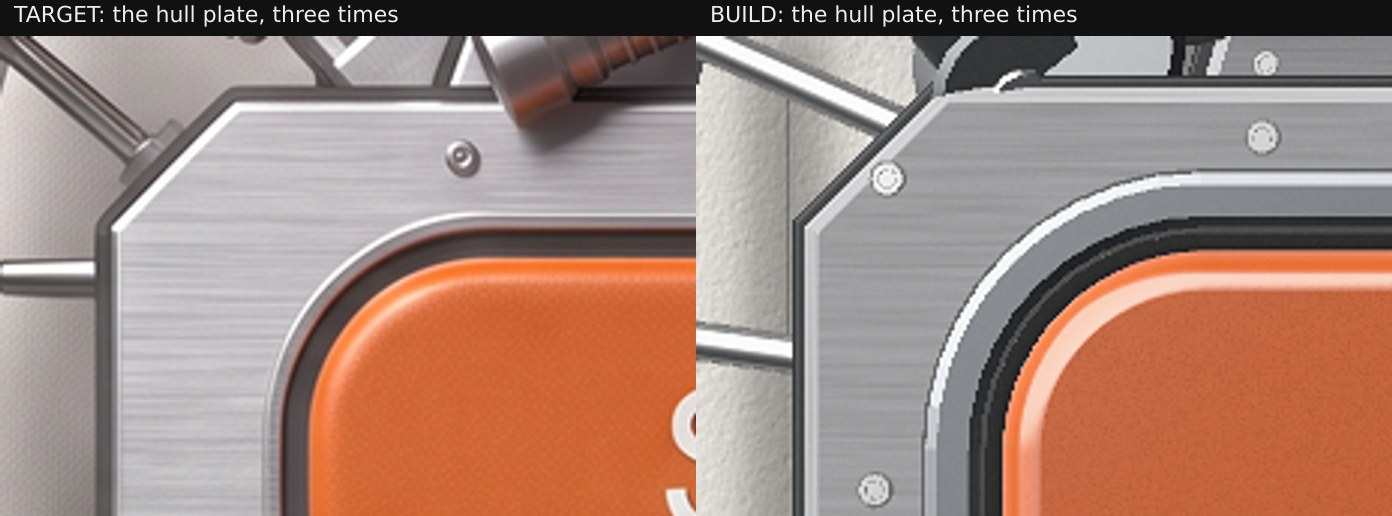
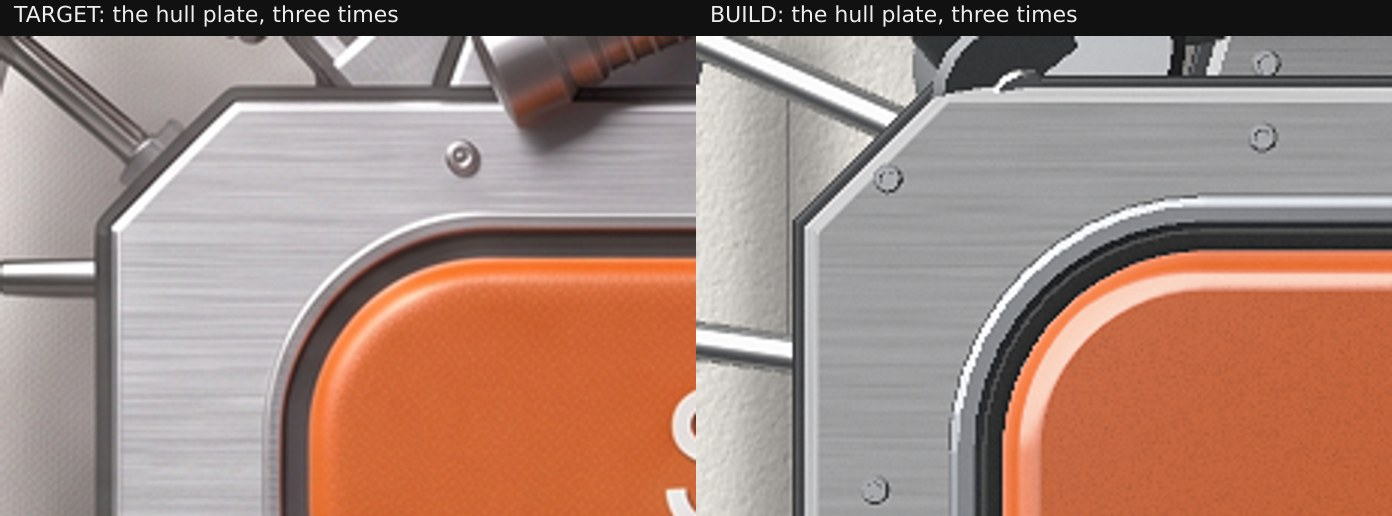
Boss look: thinner bezel round the button, smaller steel screws

Changed region(s): [[0.6178, 0.2171, 1.0, 1.0], [0.8958, 0.093, 0.9267, 0.155], [0.6178, 0.3101, 0.6487, 0.3721]]

diff --git a/src/boss/look1/model.ts b/src/boss/look1/model.ts
@@ -53,7 +53,7 @@ const screwsAt = (at: [number, number][], z: number, r = 6.5, seed = 1): THREE.B
 
 function hullGeo(): { plate: THREE.BufferGeometry; dark: THREE.BufferGeometry; trim: THREE.BufferGeometry; bed: THREE.BufferGeometry; pins: THREE.BufferGeometry; joints: THREE.BufferGeometry } {
   const { hx, hy, c, top, tall, belly } = HULL
-  const bezelOut = pillOutline(BTN.w + 52, BTN.h + 52, BTN.r + 24)
+  const bezelOut = pillOutline(BTN.w + 36, BTN.h + 36, BTN.r + 17)
   const bezelIn = pillOutline(BTN.w + 12, BTN.h + 12, BTN.r + 5)
   const plate = chamfer(oct(hx, hy, c), top - tall, top, 5, 5)
   const dark = joined([
@@ -61,10 +61,10 @@ function hullGeo(): { plate: THREE.BufferGeometry; dark: THREE.BufferGeometry; t
     plateAt(oct(hx - 16, hy - 14, c - 6), belly, top - tall + 1, 5),
     plateAt(oct(hx - 60, hy - 40, 20), belly - 22, belly + 1, 5)
   ])
-  const trim = ringPlate(bezelOut, bezelIn, 8, 5).translate(0, 0, top - 0.5)
+  const trim = ringPlate(bezelOut, bezelIn, 7, 3.5).translate(0, 0, top - 0.5)
   const bed = plateAt(pillOutline(BTN.w + 14, BTN.h + 14, BTN.r + 6), top - 0.4, top + 2, 0.5)
   const sc: [number, number][] = [[-268, -98], [268, -98], [-268, 98], [268, 98], [-150, -111], [150, -111], [-150, 111], [150, 111], [0, -111], [0, 111], [-272, 0], [272, 0]]
-  const pins = screwsAt(sc, top, 5.8, 3)
+  const pins = screwsAt(sc, top, 4.6, 3)
   const joints = joined(HIPS.map(([x, y]) => discAt(30, x * 1.0, y * 0.92, LEG.hipZ - 26, LEG.hipZ + 24, 4)))
   return { plate, dark, trim, bed, pins, joints }
 }
@@ -200,14 +200,14 @@ export function buildModel(): Model {
   const body = new THREE.Group()
   const hull = new THREE.Group()
   const hg = geo('hull', () => { const h = hullGeo(); shared.set('hull.dark', h.dark); shared.set('hull.trim', h.trim); shared.set('hull.bed', h.bed); shared.set('hull.pins', h.pins); shared.set('hull.joints', h.joints); return h.plate })
-  hull.add(mesh(hg, kit.hull), mesh(shared.get('hull.dark')!, kit.dark), mesh(shared.get('hull.trim')!, kit.bezel), mesh(shared.get('hull.bed')!, kit.bed), mesh(shared.get('hull.pins')!, kit.pin), mesh(shared.get('hull.joints')!, kit.joint))
+  hull.add(mesh(hg, kit.hull), mesh(shared.get('hull.dark')!, kit.dark), mesh(shared.get('hull.trim')!, kit.bezel), mesh(shared.get('hull.bed')!, kit.bed), mesh(shared.get('hull.pins')!, kit.limb), mesh(shared.get('hull.joints')!, kit.joint))
   body.add(hull)
 
   const wings = [1, -1].map((side) => {
     const g = new THREE.Group()
     const name = `wing${side}`
     const p = geo(name, () => { const w = wingGeo(side); shared.set(`${name}.dark`, w.dark); shared.set(`${name}.pins`, w.pins); shared.set(`${name}.base`, w.base); return w.plate })
-    g.add(mesh(p, kit.wing), mesh(shared.get(`${name}.dark`)!, kit.dark), mesh(shared.get(`${name}.pins`)!, kit.pin), mesh(shared.get(`${name}.base`)!, kit.joint))
+    g.add(mesh(p, kit.wing), mesh(shared.get(`${name}.dark`)!, kit.dark), mesh(shared.get(`${name}.pins`)!, kit.limb), mesh(shared.get(`${name}.base`)!, kit.joint))
     body.add(g)
     return g
   }) as [THREE.Group, THREE.Group]
@@ -234,7 +234,7 @@ export function buildModel(): Model {
   hatch.add(
     mesh(geo('hatch.plate', () => joined([chamfer(ho, -14, -4, 10, 4.5), ringPlate(oct(HATCH.hx - 12, HATCH.hy - 12, HATCH.c - 6), oct(HATCH.hx - 19, HATCH.hy - 19, HATCH.c - 9), 3, 0.8).translate(0, 0, -4.4)])), kit.hatch),
     hatchSeam,
-    mesh(geo('hatch.pins', () => screwsAt([[-80, -100], [80, -100], [-80, 100], [80, 100]], 0, 5, 7)), kit.pin)
+    mesh(geo('hatch.pins', () => screwsAt([[-80, -100], [80, -100], [-80, 100], [80, 100]], 0, 4.4, 7)), kit.limb)
   )
   const weak = glowMaterial(0xff2a12, 0)
   const lids = [-1, 1].map((side) => {
